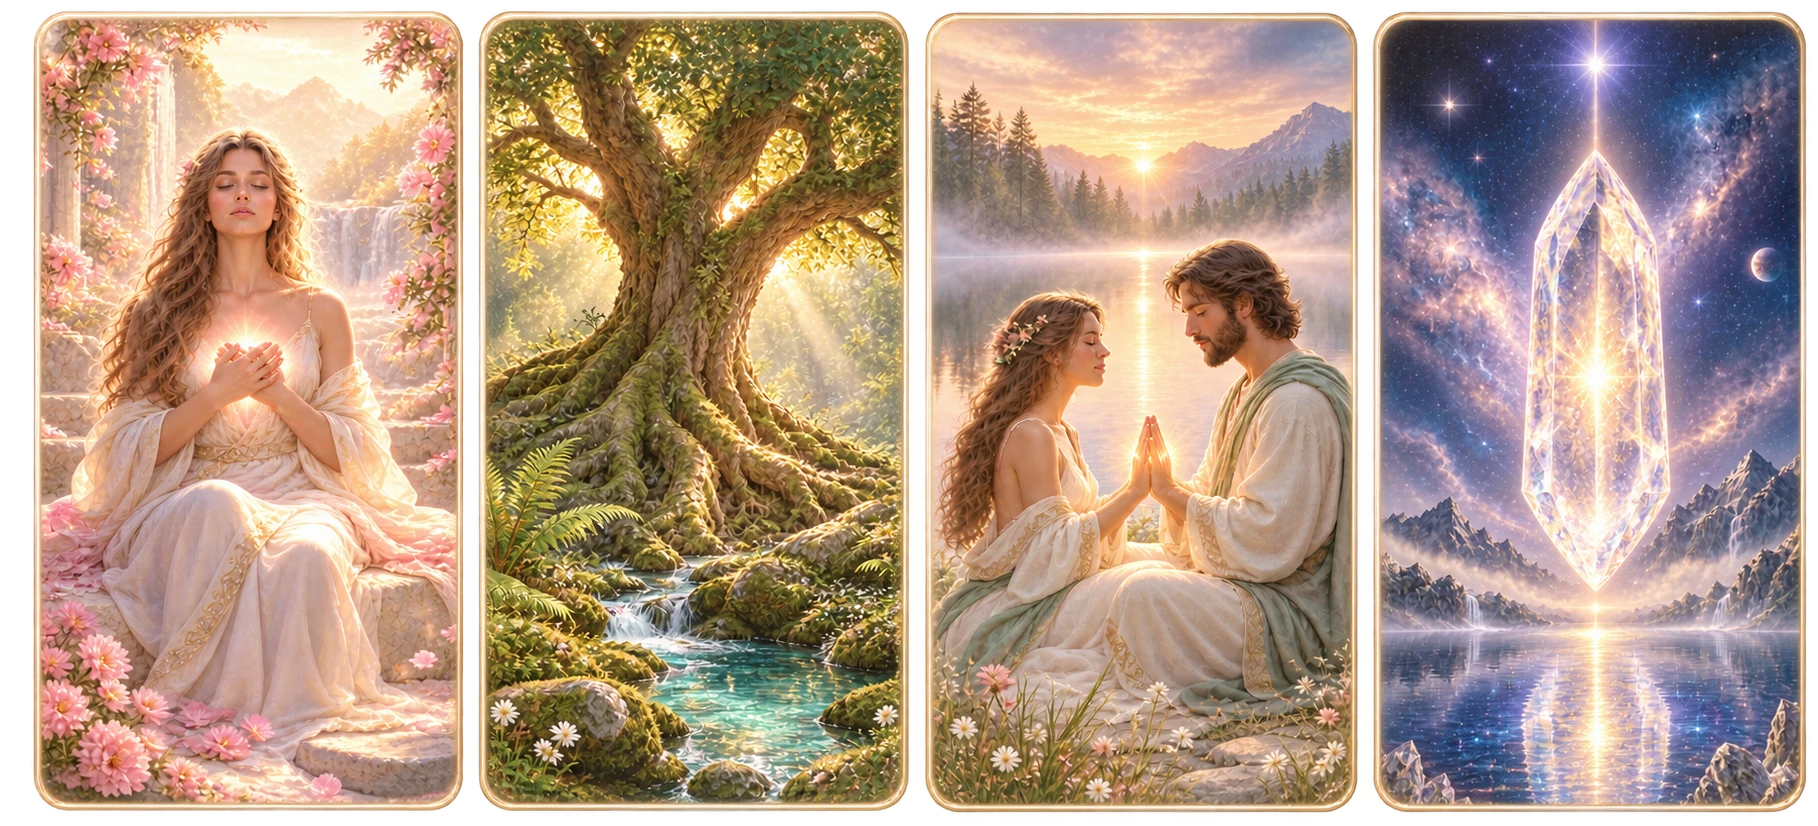
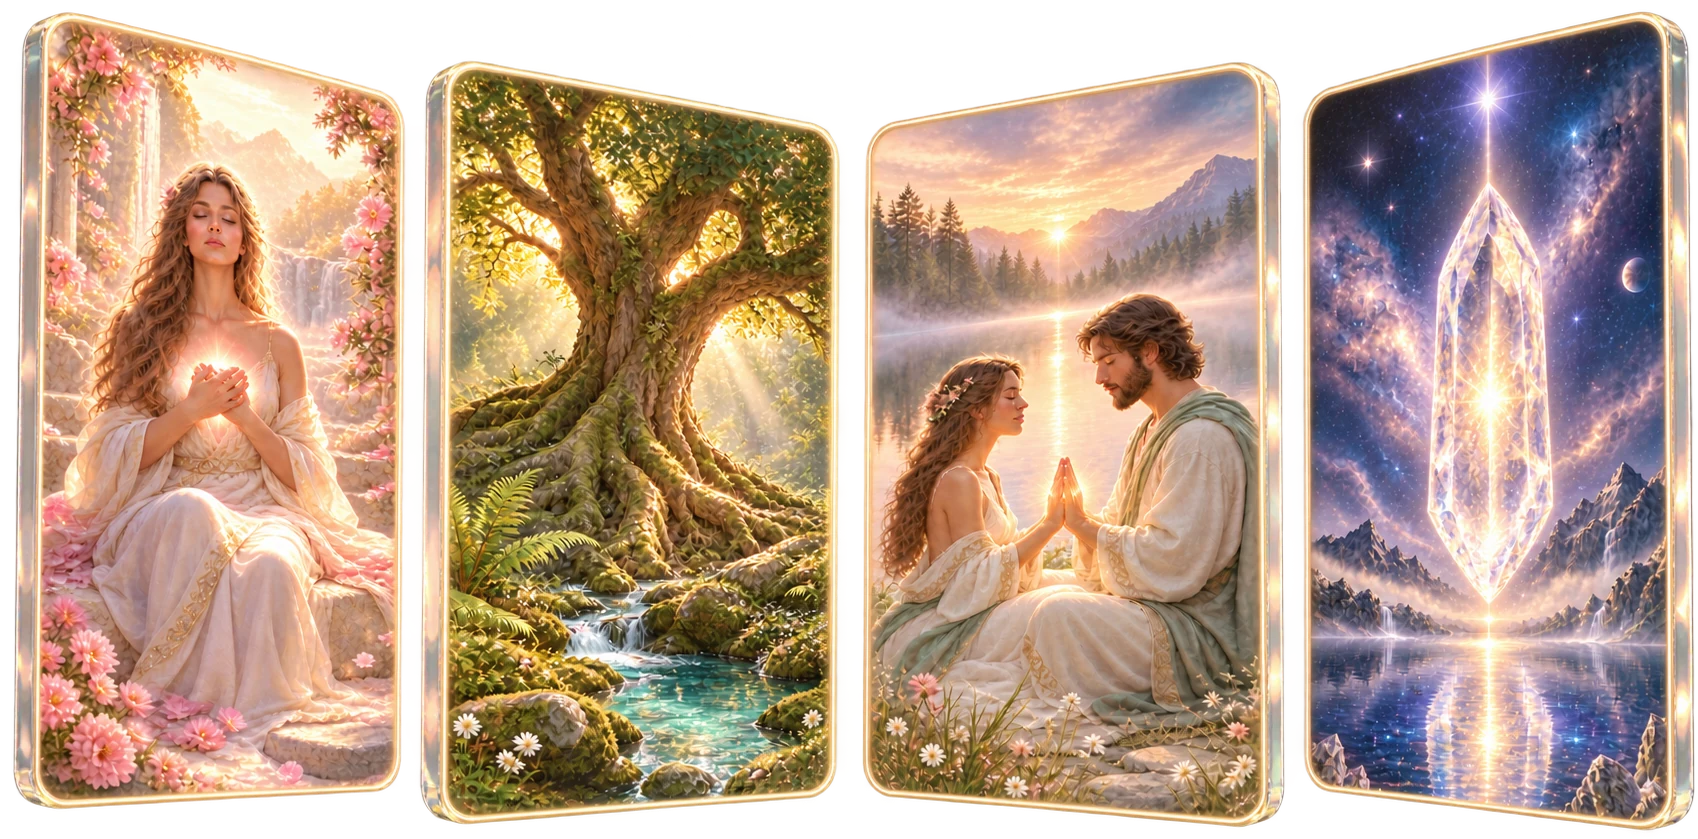
Hero: nakloněné skleněné karty

diff --git a/oaza-web/meditace.html b/oaza-web/meditace.html
@@ -333,7 +333,7 @@ dialog .zavrit{position:absolute;top:12px;right:12px;width:40px;height:40px;bord
         <svg class="l3" viewBox="0 0 400 14" aria-hidden="true"><path d="M0 7h178M222 7h178" stroke="currentColor" stroke-width="1.2"/><path d="M200 1l6 6-6 6-6-6z" fill="currentColor"/></svg>
         <span class="l4">Crystal &amp; Retreat centrum</span>
       </div>
-      <div class="hero-karty" aria-hidden="true"><img src="/img/hero-karty.webp?v=5" alt="" width="1818" height="826" fetchpriority="high"></div>
+      <div class="hero-karty" aria-hidden="true"><img src="/img/hero-karty.webp?v=6" alt="" width="1698" height="839" fetchpriority="high"></div>
     </div>
   </div>
 </section>
